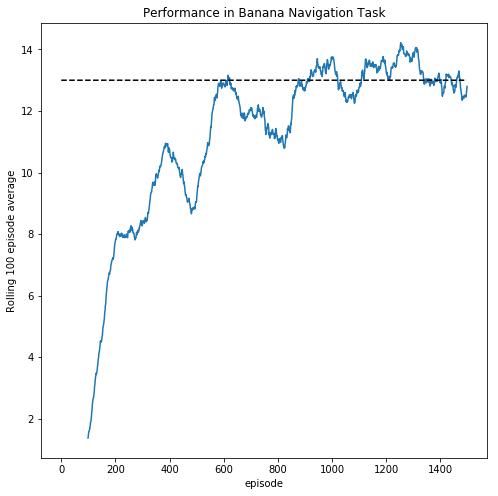
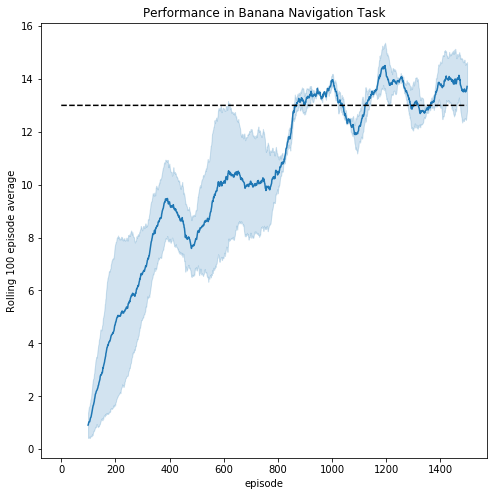
Chore: Rerun product model with lower tau

diff --git a/model/product/model.py b/model/product/model.py
@@ -39,7 +39,7 @@ class Model(BaseModel):
             params=self.params, seed=self.hyperparams['random_seed'])
 
         self.soft_update(src_model=self.network, dst_model=self.fixed_network,
-                         tau=0.5)  # Not necessary, but speeds up training if learning rate is under strength
+                         tau=1.0)  # Not necessary, but speeds up training if learning rate is under strength
 
         self.criterion = nn.MSELoss()
         self.optimizer = torch.optim.Adam(

diff --git a/Report.md b/Report.md
@@ -105,7 +105,7 @@ protocol includes selection of random actions with probability epsilon.
 
 ### Evaluation performance
 
-![Evaluation](support_images/EvalScores.png)
+![Evaluation](support_images/EvalScore.png)
 
 Figure 2 - Evaluation of the checkpoint models made during training of the final product model 
 training regime.  
@@ -113,3 +113,6 @@ training regime.
 
 
 ## Discussion
+
+The first checkpoint that demonstrates the ability to score +13.0 over the course of 100 episodes 
+was made after 600 episodes.  It does appear that the network  
